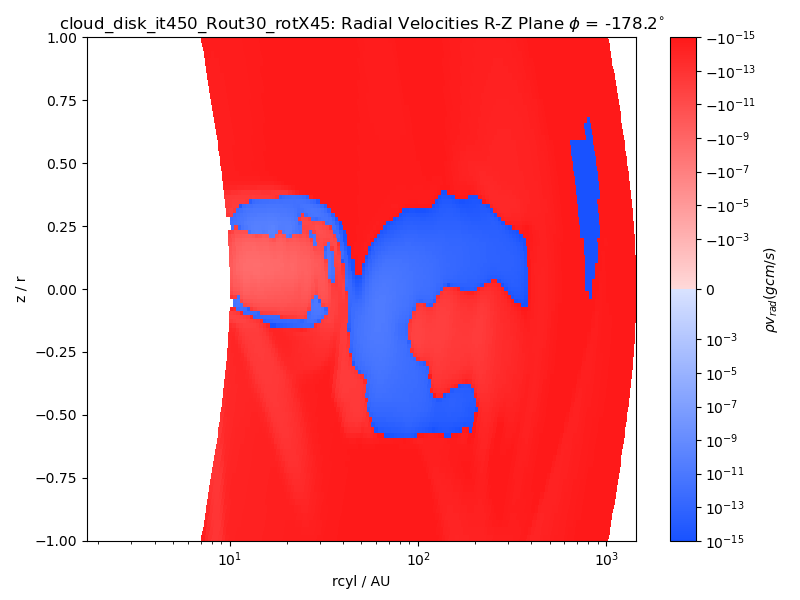
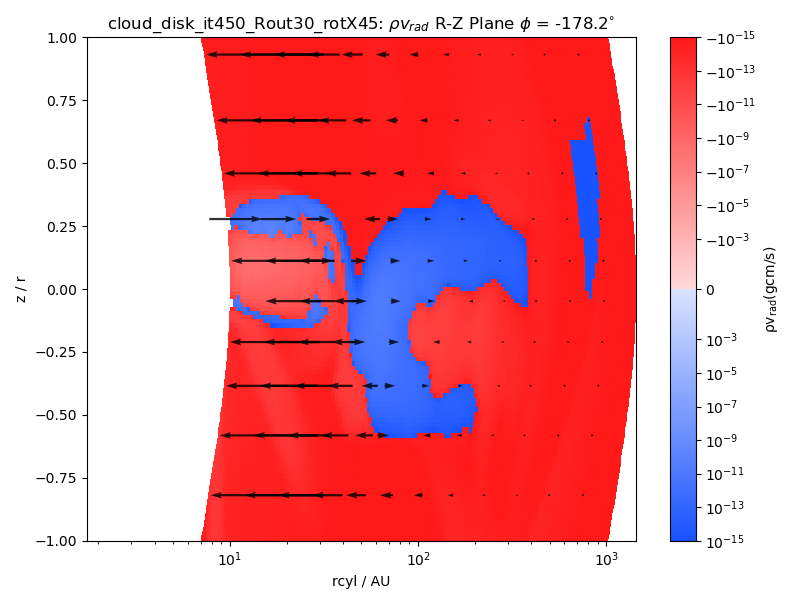
dinc/dr plots

diff --git a/analysis.py b/analysis.py
@@ -4,7 +4,7 @@ import numpy as np
 from pathlib import Path
 from read import get_domain_spherical, get_data, load_par_file, get_param_value
 import matplotlib.pyplot as plt
-from no_thoughts_just_plots import quiver_plot_3d, contours_3D, plot_surf_dens, plot_twist_arrows, plot_total_disks_bonanza, cyl_2D_plot, XY_2D_plot, velocity_streamlines, plotly_quiver3D, vel_cyl_2D
+from no_thoughts_just_plots import quiver_plot_3d, contours_3D, plot_surf_dens, plot_twist_arrows, plot_total_disks_bonanza, cyl_2D_plot, XY_2D_plot, velocity_streamlines, plotly_quiver3D, vel_cyl_2D, plot_disk_sep
 import astropy.constants as c
 import pandas as pd
 # import pyvista as pv 
@@ -462,13 +462,6 @@ def ini_cloudlet_pos(distIni, dens, dens_thresh, r, phi):
     return ini_cloud_phi
 
 
-def isolate_outer_disk():
-    """
-    Docstring for isolate_outer_disk
-    """
-    return 
-
-
 def calc_inc_twist(Lx_avg, Ly_avg, Lz_avg, R, savefig, plot=True):
     """
     Calculates the twist and inclination of the warped disk from the radial profile of angular momenta
@@ -518,6 +511,70 @@ def calc_inc_twist(Lx_avg, Ly_avg, Lz_avg, R, savefig, plot=True):
     return inc_deg, twist_deg
 
 
+def isolate_outer_disk(X, Y, Z, buffer, dens, vx, vy, vz, Lx, Ly, Lz, threshold):
+    """
+    A crude way to isolate the disk: first isolating the box surrounding the disk of interest (primary or secondary) and then applying a density threshold to capture the highest densities in the simulation output to obtain the disk and reject the background
+
+    Inputs:
+    ------
+    X:            3D meshgrid of Cartesian X values with shape (n_theta-1, n_r-1, n_phi-1)
+    Y:            3D meshgrid of Cartesian Y values with shape (n_theta-1, n_r-1, n_phi-1)
+    Z:            3D meshgrid of Cartesian Z values with shape (n_theta-1, n_r-1, n_phi-1) 
+    cenX:         Stellar X-coordinate (float)
+    cenY:         Stellar Y-coordinate (float)
+    cenZ:         Stellar Z-coordinate (float) 
+    buffer:       Size of the box to be isolated around the star 
+    dens:         3D array of centered density in g/cm^3 with shape (n_theta-1, n_r-1, n_phi-1)
+    vx:           3D meshgrid of Cartesian X velocities with shape (n_theta-1, n_r-1, n_phi-1)
+    vy:           3D meshgrid of Cartesian Y velocities with shape (n_theta-1, n_r-1, n_phi-1)
+    vz:           3D meshgrid of Cartesian Z velocities with shape (n_theta-1, n_r-1, n_phi-1) 
+    Lx:           Angular momentum array in x-direction with size (theta-1, n_r-1, n_phi-1)
+    Ly:           Angular momentum array in y-direction with size (theta-1, n_r-1, n_phi-1)
+    Lz:           Angular momentum array in z-direction with size (theta-1, n_r-1, n_phi-1)        
+    threshold:    Threshold density by which we filter the dens array
+
+    Outputs:
+    -------
+    disk_dens:    3D array of filtered density in g/cm^3 with shape (n_theta-1, n_r-1, n_phi-1)
+    disk_vx:      3D array of filtered x velocities in cm/s with shape (n_theta-1, n_r-1, n_phi-1)
+    disk_vy:      3D array of filtered y velocities in cm/s with shape (n_theta-1, n_r-1, n_phi-1)
+    disk_vz:      3D array of filtered z velocities in cm/s with shape (n_theta-1, n_r-1, n_phi-1)
+    disk_Lx:      3D array of filtered x angular momenta in CGS with shape (n_theta-1, n_r-1, n_phi-1)
+    disk_Ly:      3D array of filtered y angular momenta in CGS with shape (n_theta-1, n_r-1, n_phi-1)
+    disk_Lz:      3D array of filtered z angular momenta in CGS with shape (n_theta-1, n_r-1, n_phi-1)
+    ids:          3D array of indices corresponding to disk_dens
+    """
+
+    # First isolating the box around the disk of interest to avoid capturing points outside disk that meet density threshold
+    box_mask = (
+        (X >= cenX - buffer) & (X <= cenX + buffer) &
+        (Y >= cenY - buffer) & (Y <= cenY + buffer) &
+        (Z >= cenZ - buffer) & (Z <= cenZ + buffer)
+    )
+    box_dens = np.where(box_mask, dens, np.nan)
+    box_vx = np.where(box_mask, vx, np.nan)
+    box_vy = np.where(box_mask, vy, np.nan)
+    box_vz = np.where(box_mask, vz, np.nan)
+    box_Lx = np.where(box_mask, Lx, np.nan)
+    box_Ly = np.where(box_mask, Ly, np.nan)
+    box_Lz = np.where(box_mask, Lz, np.nan)
+
+    # Filtering densities greater than a given threshold; values below the threshold are designated nan
+    dens_mask = dens > 10**threshold
+    outer_dens = np.where(dens_mask, box_dens, np.nan)
+    outer_vx = np.where(dens_mask, box_vx, np.nan)
+    outer_vy = np.where(dens_mask, box_vy, np.nan)
+    outer_vz = np.where(dens_mask, box_vz, np.nan)
+    outer_Lx = np.where(dens_mask, box_Lx, np.nan)
+    outer_Ly = np.where(dens_mask, box_Ly, np.nan)
+    outer_Lz = np.where(dens_mask, box_Lz, np.nan)
+
+    # Also finding the corresponding x, y, z indices of the filtered densities
+    ids = ~np.isnan(outer_dens)
+
+    return outer_dens, outer_vx, outer_vy, outer_vz, outer_Lx, outer_Ly, outer_Lz, ids
+
+
 def calc_total_L(Lx_avg, Ly_avg, Lz_avg):
     """
     Calculates the total angular momentum of the disk with reference to the z-axis by averaging over the radial profile of the angular momenta
@@ -557,14 +614,11 @@ def calc_whirl(Lx_tot, Ly_tot, Lz_tot, ini_cloud_phi):
     return whirl_deg
 
 
-
-
-
 def main():
 
-    folder = Path("../cloud_disk_it450_rotX45/")                        # Folder with the output files
-    # folder = Path("../fargo3d/outputs/cloud_disk_it450_rotX45")         # Folder with the output files (BinAC2)
-    fig_imgs = Path("cloud_disk_it450_rotX45/imgs/")                    # Folder to save images
+    folder = Path("../cloud_disk_it450_Rout30_rotX45/")                        # Folder with the output files
+    # folder = Path("../fargo3d/outputs/cloud_disk_it450_Rout30_rotX45")         # Folder with the output files (BinAC2)
+    fig_imgs = Path("cloud_disk_it450_Rout30_rotX45/imgs/")                    # Folder to save images
     it = 450                                                       # FARGO snapshot of interest
     sim_name = str(fig_imgs).split('/')[0]                         # Simulation name (for plot labels)
     
@@ -655,8 +709,11 @@ def main():
     # Density RZ plot
     # cyl_2D_plot(rho, RCYL, ZCYL, irad, iphi, title=rf'{sim_name}: Density R-Z Plane $\phi$ = {np.round(np.degrees(domains["phi"][iphi]), 2)}$^{{\circ}}$', colorbarlabel=r"$\rho (g/cm^{3})$", savefig=True, figfolder=f'{fig_imgs}/dens_cyl_phi{iphi}_rad{irad}_it{it}.png', showfig=True, data_phiavg=False)
 
-    # Velocities RZ plot
-    vel_cyl_2D(vrad, rho, RCYL, ZCYL, irad, iphi, title=rf'{sim_name}: Radial Velocities R-Z Plane $\phi$ = {np.round(np.degrees(domains["phi"][iphi]), 2)}$^{{\circ}}$', colorbarlabel=r"$\rho v_{rad} (g cm/s)$", savefig=True, figfolder=f'{fig_imgs}/rhoradvel_cyl_phi{iphi}_rad{irad}_it{it}.png', showfig=True, acc=True, data_phiavg=False)
+    # Radial velocity RZ plot
+    vel_cyl_2D(vrad, rho, RCYL, ZCYL, irad, iphi, title=rf'{sim_name}: Radial Velocities R-Z Plane $\phi$ = {np.round(np.degrees(domains["phi"][iphi]), 2)}$^{{\circ}}$', colorbarlabel=r"$\mathrm{v_{rad} (g cm/s)}$", savefig=True, figfolder=f'{fig_imgs}/rhoradvel_cyl_phi{iphi}_rad{irad}_it{it}.png', showfig=True, acc=False, data_phiavg=False)
+
+    # Rho * Radial velocity RZ plot
+    vel_cyl_2D(vrad, rho, RCYL, ZCYL, irad, iphi, title=rf'{sim_name}: $\rho v_{{rad}}$ R-Z Plane $\phi$ = {np.round(np.degrees(domains["phi"][iphi]), 2)}$^{{\circ}}$', colorbarlabel=r"$\mathrm{\rho v_{rad} (g cm/s)}$", savefig=True, figfolder=f'{fig_imgs}/rhoradvel_cyl_phi{iphi}_rad{irad}_it{it}.png', showfig=True, acc=True, data_phiavg=False)
 
     # XY_2D_plot(rho, X, Y, irad, itheta, title=rf'{sim_name}: Density X-Y Plane $\theta = $ {itheta_deg}$^{{\circ}}$', colorbarlabel=r"$\log(\rho)$", savefig=True, figfolder=f'{fig_imgs}/dens_xy_theta{itheta}_rad{irad}_it{it}.png', showfig=True)
 
@@ -694,6 +751,10 @@ def main():
     print(np.min(twist), np.max(twist), np.mean(twist))
     # print(np.min(inc), np.max(inc), np.mean(inc))
 
+    # Isolating the outer disk by finding discontinuity in d(inc)/dr 
+    r_break = plot_disk_sep(domains["r"], inc, title=rf"{sim_name}: Inclination Gradient", savefig=True, figfolder=f'{fig_imgs}/dinc_dr.png', showfig=True)
+    print("r_break:", r_break/au)
+
     # Calculating and plotting the total angular momentum of the warped disk
     Lx_disk, Ly_disk, Lz_disk = calc_total_L(Lx_warp_avg, Ly_warp_avg, Lz_warp_avg)
 
@@ -701,10 +762,10 @@ def main():
     cloud_dist = get_param_value("DistIni", sim_name)
     rho0 = get_data(folder, "dens", 0, domains)         # Load 3D array of density values at first iteration
     cloud_phi = ini_cloudlet_pos(cloud_dist, rho0, 1e-17, domains["r"], domains["phi"])
-    print("CLOUD_PHI:", cloud_phi)
+    # print("CLOUD_PHI:", cloud_phi)
 
     whirl = calc_whirl(Lx_disk, Ly_disk, Lz_disk, cloud_phi)
-    print("WHIRL: ", whirl)
+    # print("WHIRL: ", whirl)
 
     # Calculating and plotting the radial profile of warp/disk precession as a quiver plot
     # plot_twist_arrows(Lx_warp_avg, Ly_warp_avg, Lz_warp_avg, domains["r"], r_select, plot_args, title=f"{sim_name}: Disk Twist", savefig=True, figfolder=f'{fig_imgs}/warp_twist_arrows_it{it}_dens{warp_thresh}.png', showfig=True)

diff --git a/no_thoughts_just_plots.py b/no_thoughts_just_plots.py
@@ -90,31 +90,42 @@ def vel_cyl_2D(vel, rho, RCYL, ZCYL, irad, iphi, title, colorbarlabel, savefig, 
     """
 
     fig, ax = plt.subplots(1, 1, figsize=(8,6))
+
+    # Plotting phi averaged vrad or rho * vrad
     if data_phiavg:
-        # np.sign(vel[...,:irad]) * np.log10(vel[...,:irad])
+        
         c3 = plt.pcolormesh(RCYL[..., :irad, iphi]/au, ZCYL[..., :irad, iphi]/RCYL[..., :irad, iphi], vel[...,:irad], cmap=cmaps.BlueRed)#, vmin=-11, vmax=11, rasterized=True)
+
+    # Plotting vrad or rho * vrad without averaging in phi
     else:
+
+        # Plotting rho * vrad
         if acc:
-            # plot_data = np.sign(vel[...,:irad, iphi]) * np.log10(np.abs(rho[...,:irad, iphi] * vel[...,:irad, iphi]))
+
+            vmin = -15
             plot_data = np.sign(vel[..., :irad, iphi]) * (np.log10(rho[..., :irad, iphi]) + np.log10(np.abs(vel[..., :irad, iphi])))
-            c3 = plt.pcolormesh(RCYL[..., :irad, iphi]/au, ZCYL[..., :irad, iphi]/RCYL[..., :irad, iphi], plot_data, cmap=cmaps.BlueRed, vmin=-15, vmax=15, rasterized=True)
+            c3 = plt.pcolormesh(RCYL[..., :irad, iphi]/au, ZCYL[..., :irad, iphi]/RCYL[..., :irad, iphi], plot_data, cmap=cmaps.BlueRed, vmin=vmin, vmax=np.abs(vmin), rasterized=True)
+
+        # Plotting just vrad
         else:
-            # np.sign(vel[...,:irad, iphi]) * np.log10(vel[...,:irad, iphi])
-            c3 = plt.pcolormesh(RCYL[..., :irad, iphi]/au, ZCYL[..., :irad, iphi]/RCYL[..., :irad, iphi], np.sign(vel[...,:irad, iphi]) * np.log10(np.abs(vel[...,:irad, iphi])), cmap=cmaps.BlueRed, vmin=-6, vmax=6, rasterized=True)
 
-    # Xtemp, Ytemp = np.meshgrid(RCYL[..., :irad, iphi]/au, ZCYL[..., :irad, iphi]/RCYL[..., :irad, iphi])
-    # U = np.sign(vel[...,:irad, iphi])  # horizontal direction (positive = outward)
-    # V = np.zeros_like(U)      # no vertical component
-    # arrow_cmap = plt.cm.bwr   # blue–white–red
-    # arrow_norm = colors.Normalize(vmin=-1, vmax=1)
-    # step = (slice(None, None, 5), slice(None, None, 10))  # Downsampling to avoid clutter
-    # q1 = ax.quiver(Xtemp[step], Ytemp[step], U[step], V[step], U[step], cmap=arrow_cmap, norm=arrow_norm, scale=20)
+            vmin = -6
+            c3 = plt.pcolormesh(RCYL[..., :irad, iphi]/au, ZCYL[..., :irad, iphi]/RCYL[..., :irad, iphi], np.sign(vel[...,:irad, iphi]) * np.log10(np.abs(vel[...,:irad, iphi])), cmap=cmaps.BlueRed, vmin=vmin, vmax=np.abs(vmin), rasterized=True)
 
+    # Plotting arrows of vrad (or rho * vrad) to check
+    step = 10
+    R = RCYL[..., :irad, iphi]
+    Z = ZCYL[..., :irad, iphi]
+    Xq = R[::step, ::step] / au
+    Yq = Z[::step, ::step] / R[::step, ::step]
+    U = vel[..., :irad, iphi][::step, ::step] / np.abs(vel[..., :irad, iphi][::step, ::step])
+    V = np.zeros_like(U)
+    plt.quiver(Xq, Yq, U, V, color='k', pivot="tip", angles='xy', scale_units='xy', scale=1e-1, alpha=0.8)
+
+    # Colourbar formatting
     cbar = fig.colorbar(c3, ax=ax)
-    #Adjusting colorbar tick labels
-    exponents = np.arange(-15, -1, 2)   
+    exponents = np.arange(vmin, -1, 2)   # Colourbar tick labels
     ticks = np.concatenate([-exponents[::-1], [0], exponents])
-    # print(ticks)
     ticklabels = (
         [fr"$-10^{{{exp}}}$" for exp in exponents[::-1]] +
         ["0"] +
@@ -123,6 +134,8 @@ def vel_cyl_2D(vel, rho, RCYL, ZCYL, irad, iphi, title, colorbarlabel, savefig, 
     cbar.set_ticks(ticks)
     cbar.set_ticklabels(ticklabels)
     cbar.set_label(colorbarlabel)
+
+    # Plot formatting
     plt.xlabel("rcyl / AU")
     plt.ylabel("z / r")
     plt.xscale("log")
@@ -801,3 +814,40 @@ def velocity_streamlines(X_c, Y_c, vx_c_warp, vy_c_warp, rho_c_warp, ithetas, ir
         plt.show()
     else:
         plt.close()
+
+
+def plot_disk_sep(R, inc, title, savefig, figfolder, showfig=True):
+    """
+    Plots r_break, the radius to separate the inner and outer disk based on a discontinuity in d(inc)/dr and returns r_break
+    """
+
+    rc = 0.5 * (R[:-1] + R[1:])
+    di_dr = np.gradient(inc, rc)
+    r_break = rc[np.nanargmax(np.abs(di_dr))]
+
+    colours = cmaps.discrete_Bg.discrete(3)
+    colours = colours(np.linspace(0, 1, 3))
+
+    # Plot d(inc)/dr
+    plt.plot(rc/au, di_dr, color=colours[0], linewidth=3)
+    plt.axvline(r_break/au, color='black', linestyle='--', linewidth=2.5)         # Label separation between inner and outer disks
+    plt.axvspan(10, r_break/au, color=colours[1], alpha=0.3)                      # Shading area corresponding to the inner disk
+    plt.axvspan(r_break/au, 300, color=colours[2], alpha=0.3)                     # Shading area corresponding to the outer disk
+    plt.text(25, np.nanmax(di_dr) * 0.6, "Inner disk", color=colours[1], ha='center', va="center", rotation="vertical")        # Labelling inner disk
+    plt.text(150, np.nanmax(di_dr) * 0.6, "Outer disk", color=colours[2], ha='center')  # Labelling outer disk
+
+    plt.xlabel("R [AU]")
+    plt.ylabel(r"$\frac{d(inc)}{dr}$")
+    plt.title(title)
+    
+    # Save the figure?
+    if savefig == True:
+        plt.savefig(figfolder)
+
+    # Display the figure?
+    if showfig:
+        plt.show()
+    else:
+        plt.close()
+
+    return r_break
